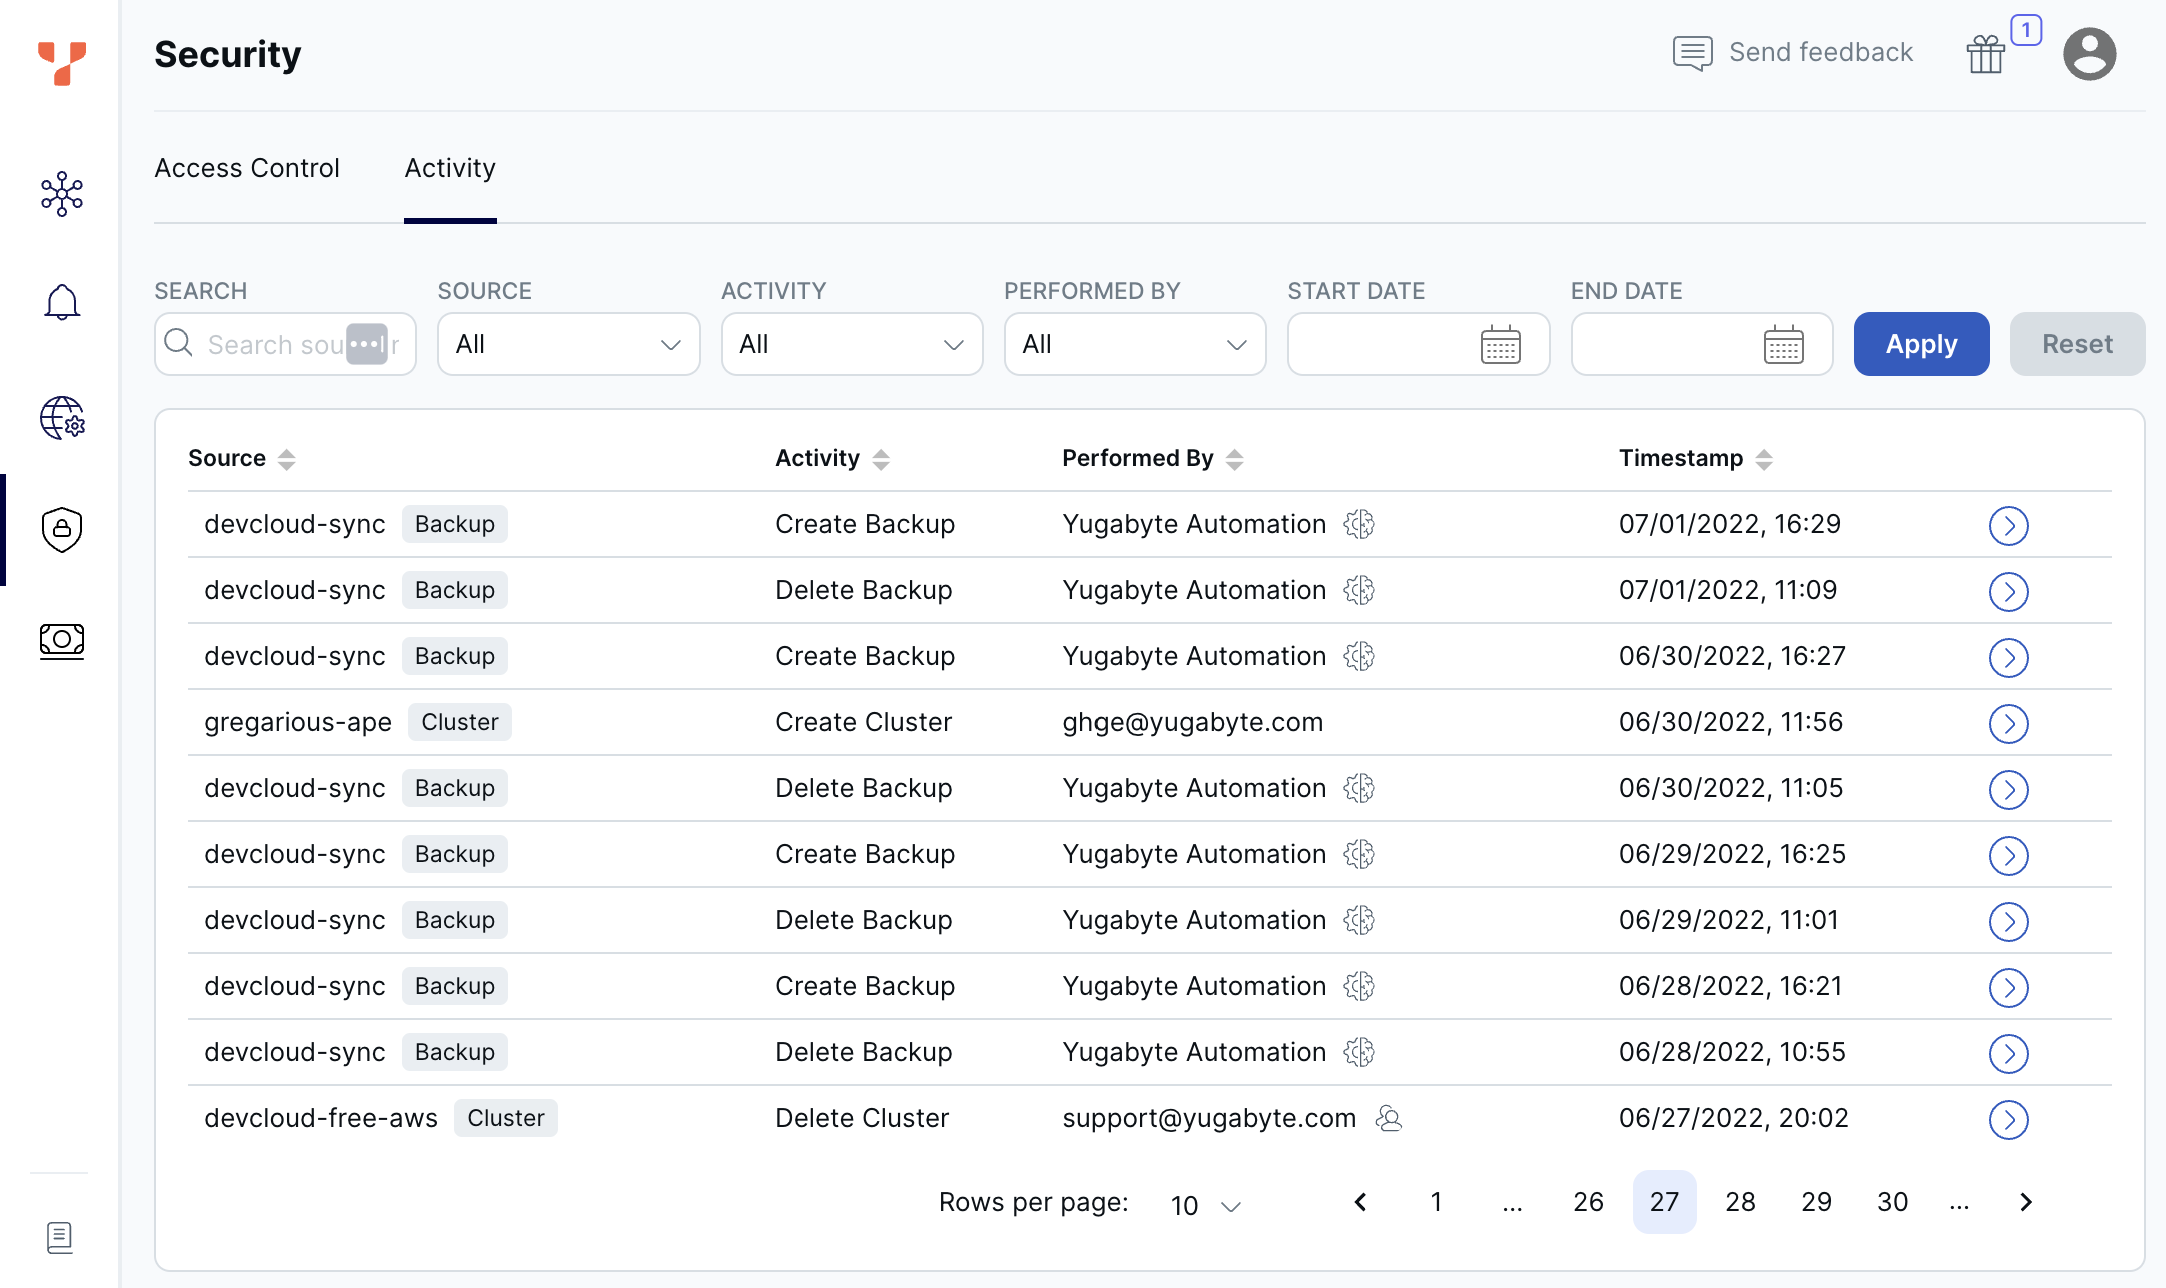
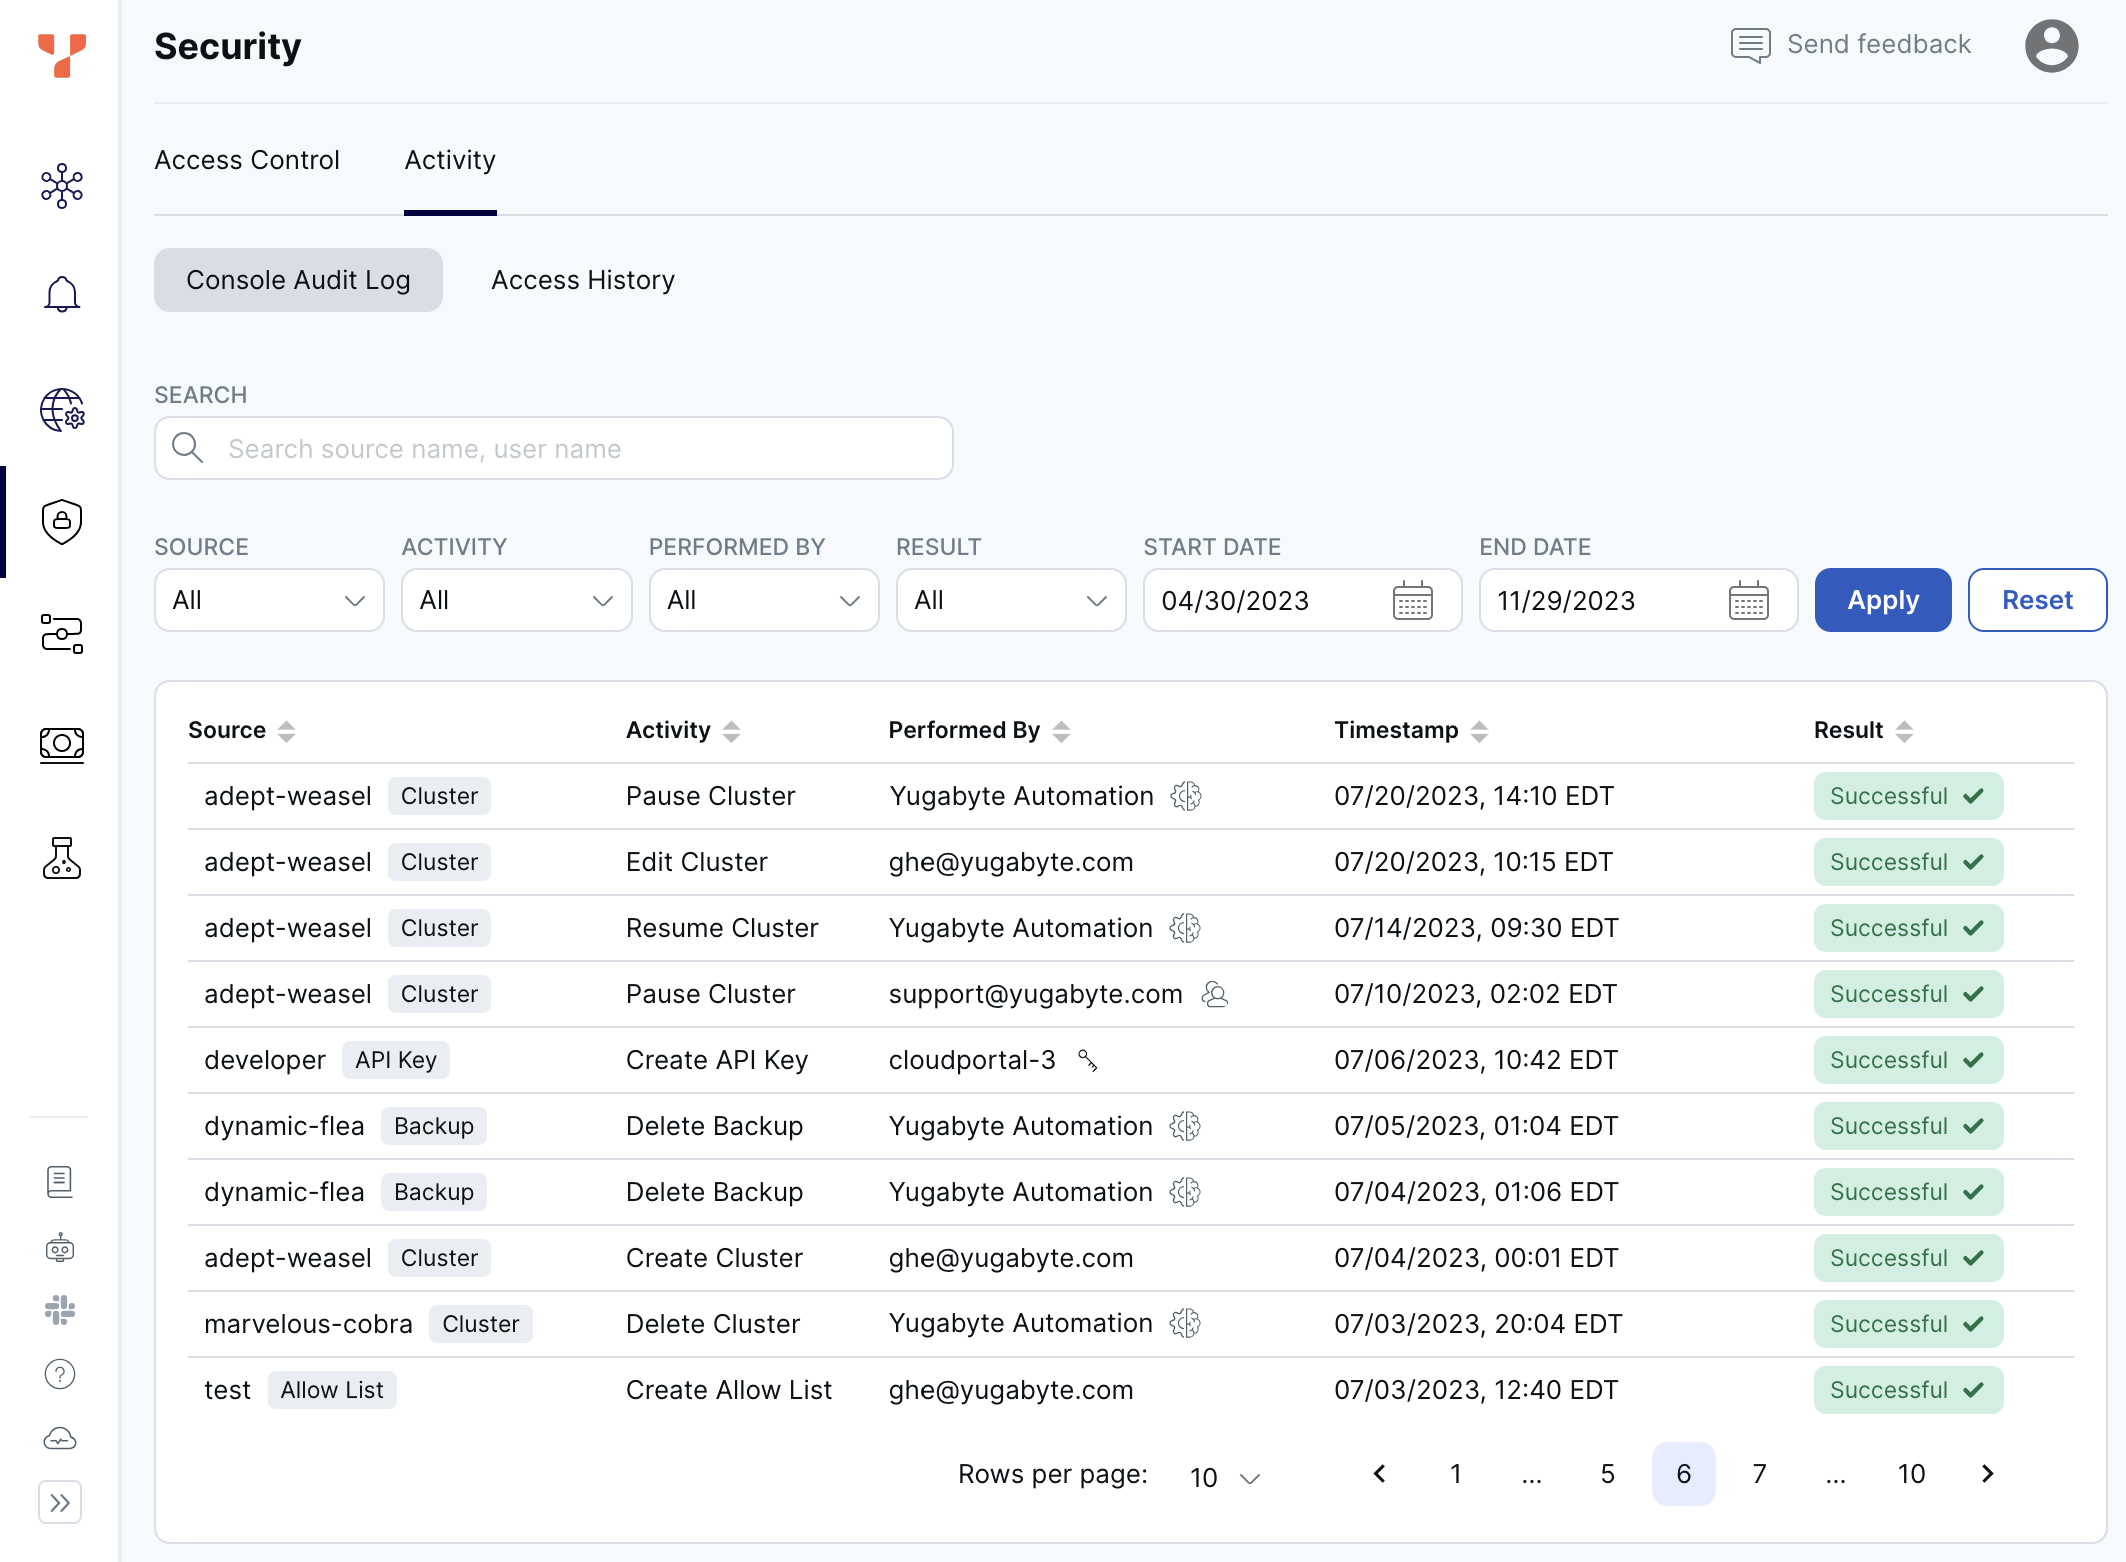
Console and access logs

diff --git a/docs/content/preview/yugabyte-cloud/cloud-secure-clusters/_index.md b/docs/content/preview/yugabyte-cloud/cloud-secure-clusters/_index.md
@@ -21,7 +21,7 @@ YugabyteDB Managed clusters include the following security features:
 | **Database authorization** | YugabyteDB uses [role-based access control](cloud-users/) for database authorization. Using the default database admin user that is created when a cluster is deployed, you can [add additional roles and users](add-users/) to provide custom access to database resources to other team members and database clients. |
 | **Encryption in transit** | YugabyteDB Managed uses [encryption-in-transit](cloud-authentication/) for client-server and intra-node connectivity. |
 | **Encryption at rest** | Data at rest, including clusters and backups, is AES-256 encrypted using native cloud provider technologies: S3 and EBS volume encryption for AWS, Azure disk encryption, and server-side and persistent disk encryption for GCP. For additional security, you can [encrypt your clusters](managed-ear/) using keys that you manage yourself. |
-| **Auditing** | YugabyteDB Managed provides detailed [tracking of activity](cloud-activity/) on your account, including cluster creation, changes to clusters, changes to IP allow lists, backup activity, and billing. |
+| **Auditing** | YugabyteDB Managed provides detailed [auditing of activity](cloud-activity/) on your account, including cluster creation, changes to clusters, changes to IP allow lists, backup activity, billing, access history, and more. |
 
 <div class="row">
 

diff --git a/docs/content/preview/yugabyte-cloud/cloud-secure-clusters/cloud-activity.md b/docs/content/preview/yugabyte-cloud/cloud-secure-clusters/cloud-activity.md
@@ -12,15 +12,18 @@ menu:
 type: docs
 ---
 
-Audit your account activity using the **Activity** tab on the **Security** page, which lists the source, activity, user, and time of the activity.
+Audit your account activity using the **Activity** tab on the **Security** page. The **Activity** tab provides the following two logs:
+
+- **Console Audit Log** - lists cluster and account activity, including the activity type, who performed the activity, timestamp, and result.
+- **Access History** - lists all login activity, including the client IP address, activity type, number of attempts, timestamp, and result.
 
 Cluster activity is also displayed on the cluster [**Activity** tab](../../cloud-monitor/monitor-activity).
 
 ![Activity tab](/images/yb-cloud/cloud-admin-activity.png)
 
-To view activity details and associated messages, click the right arrow in the list to display the **Activity Details** sheet.
+To view activity details and associated messages, select the activity in the list to display the **Activity Details** sheet.
 
-To filter the activity list, enter a search term. You can also filter the list by Source, Activity, and Date range.
+To filter the activity list, enter a search term. You can also filter the list by Source, Activity, Performed by, Result, and Date range.
 
 <!--
 ## Logged activity

diff --git a/docs/content/preview/yugabyte-cloud/cloud-monitor/monitor-activity.md b/docs/content/preview/yugabyte-cloud/cloud-monitor/monitor-activity.md
@@ -13,7 +13,7 @@ menu:
 type: docs
 ---
 
-Review activity on your cluster using the **Activity** tab. The tab lists cluster activity, including the activity type, status, and start and end time.
+Review activity on your cluster using the **Activity** tab. The tab lists cluster activity, including the activity type, status, start time, and end time.
 
 To review all account activity, use the [**Activity** tab](../../cloud-secure-clusters/cloud-activity/) on the **Security** page.
 
